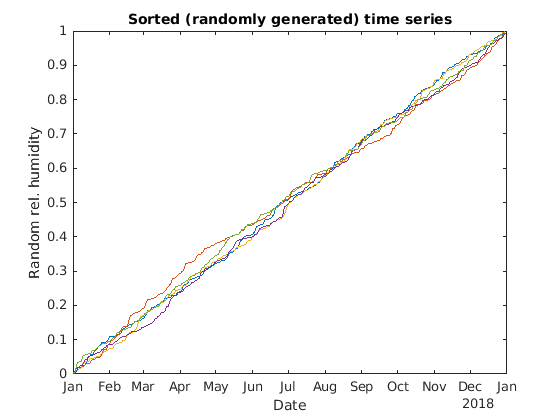
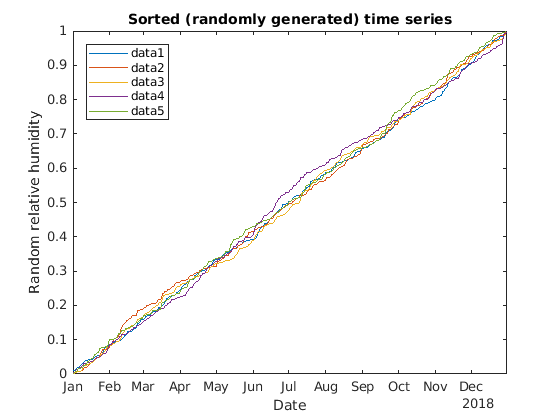
renamed files to follow template; ready for publishing

diff --git a/Codes/cd_plotData.m b/Codes/cd_plotData.m
@@ -1,9 +1,14 @@
 clear all;          close all;
 
-load dataSeriesProcessed.mat
+load ../Data/dataSeriesProcessed.mat
 
 plot(timeSeries,dataSeries);
 title('Sorted (randomly generated) time series');
-xlabel('Date');     ylabel('Random rel. humidity');
+xlabel('Date');     ylabel('Random relative humidity');
+legend('Location','NorthWest');
+xlim([timeSeries(1) timeSeries(end)]);
 
-print('testFigure','-dpng','-r0');
+print('../Plots/testFigure','-dpng','-r0');
+
+pause(1);       
+close all;

diff --git a/Codes/cd_createData.m b/Codes/cd_createData.m
@@ -2,7 +2,9 @@ clear all;          close all;
 
 cd /home/hemantkumar/git/firstTestRepo/
 
+cd ./Codes/
+
 timeSeries = datetime(2018,1,1):datetime(2018,12,31);
 dataSeries = rand(5,length(timeSeries) );
-save('testData.mat','timeSeries','dataSeries');
+save('../Data/testData.mat','timeSeries','dataSeries');
 

diff --git a/Codes/cd_processData.m b/Codes/cd_processData.m
@@ -1,8 +1,8 @@
 clear all; close all;
 
-load testData.mat
+load ../Data/testData.mat
 
 dataSeries = (sort(dataSeries,2,'ascend'));
 
-save('dataSeriesProcessed.mat','dataSeries','timeSeries');
+save('../Data/dataSeriesProcessed.mat','dataSeries','timeSeries');
 

diff --git a/cd_runAllCodes.m b/cd_runAllCodes.m
@@ -1,0 +1,10 @@
+clear all; close all;
+
+cd ./Codes/ % Enter directory where codes are stored
+
+% Run all the codes
+run cd_createData.m
+run cd_processData.m
+run cd_plotData.m
+
+cd .. % Enter the main directory again
